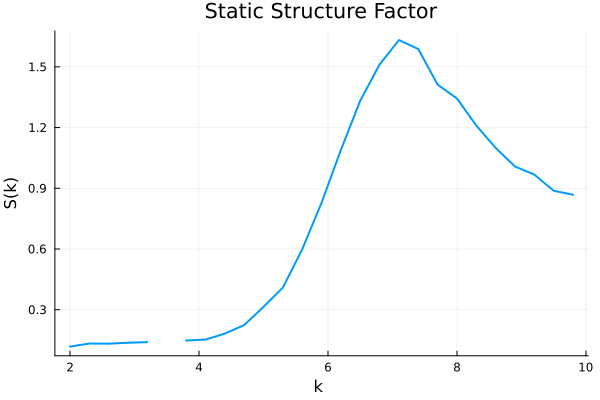
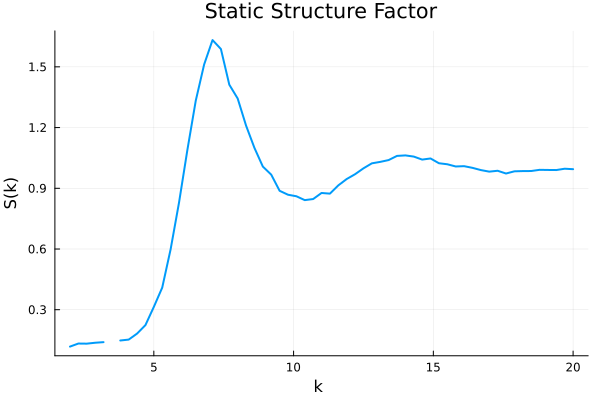
improve docs

diff --git a/docs/src/examples.md b/docs/src/examples.md
@@ -79,7 +79,7 @@ First, we need to construct the k-space vectors.
 
 ```julia
 # Use only wave vectors with a length between 0 and 10
-kbounds = (0.0, 10.0)
+kbounds = (0.0, 20.0)
 # Construct the k-space vectors
 kspace = SimulationAnalysis.construct_k_space(sim, kbounds)
 ```
@@ -97,7 +97,7 @@ We can compute the corresponding density modes. These are used to construct scat
 $\rho(k,t)=\sum_j \exp(i \mathbf{k}\cdot\mathbf{r}_j),$
 where the index $j$ runs over all particles.
 ```julia
-density_modes = SimulationAnalysis.find_density_modes(sim, kspace; verbose=false)
+density_modes = SimulationAnalysis.find_density_modes(sim, kspace; verbose=true)
 ```
 ```
 SingleComponentDensityModes with real and imaginary parts of size (430, 2418).
@@ -120,7 +120,7 @@ Structure factor calculated: 0.12698982578981327
 If the goal is to compute S(k) at many different points in k, it is more efficient to use the precomputed density modes from above
 ```julia
 # Calculate the structure factor for a specific k-range
-k_sample_arr = 2:0.3:10
+k_sample_arr = 2:0.3:20
 S_k = SimulationAnalysis.find_structure_factor(sim, kspace, density_modes, k_sample_arr; k_binwidth=0.1)
 plot(k_sample_arr, S_k,
     xlabel="k ",
